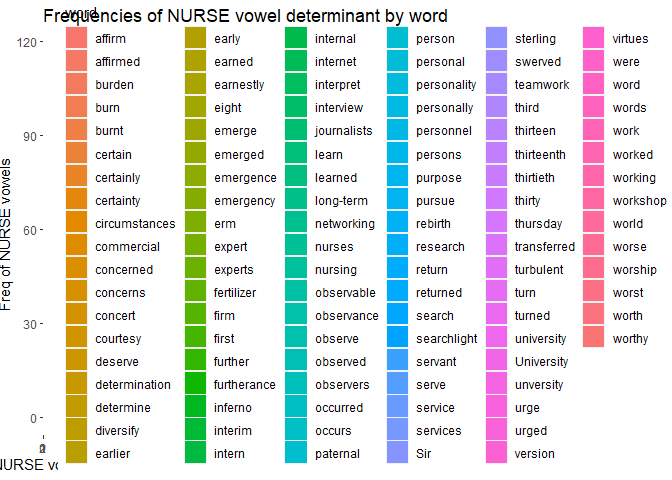
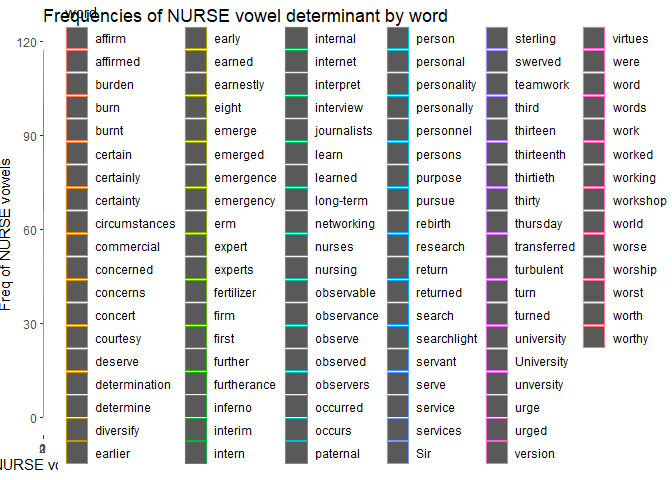
visualization edited

diff --git a/NURSE_analysis.md b/NURSE_analysis.md
@@ -467,7 +467,7 @@ summary(model_nurse_determinant)
     Signif. codes:  0 '***' 0.001 '**' 0.01 '*' 0.05 '.' 0.1 ' ' 1
 
 ``` r
-ggplot(nurse_segment, aes(x = nurse_determinant, fill = word)) +
+ggplot(nurse_segment, aes(x = nurse_determinant, color = word)) +
   geom_bar() +
   labs(x = "NURSE vowels", y = "Freq of NURSE vowels")+
    ggtitle("Frequencies of NURSE vowel determinant by word")
